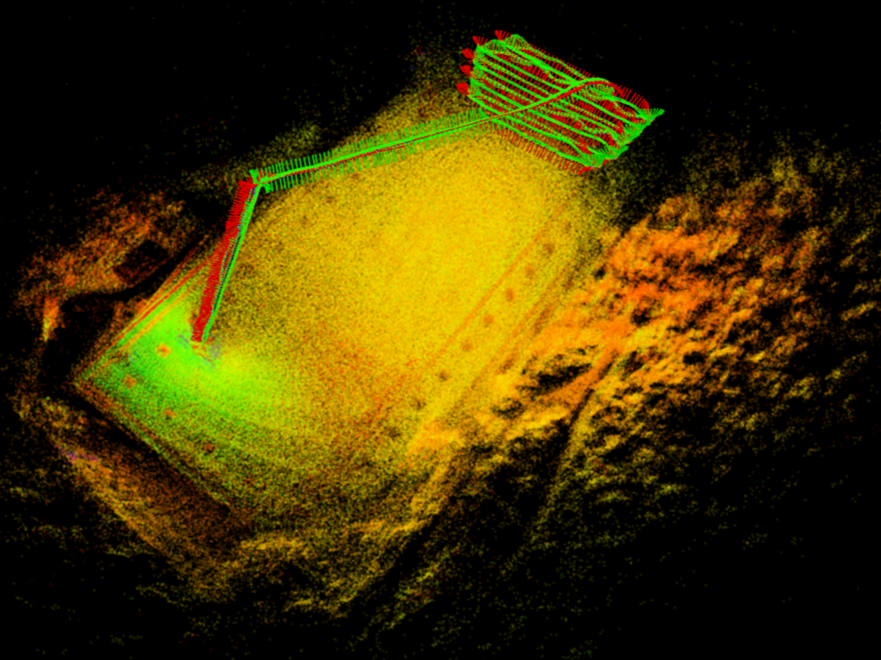
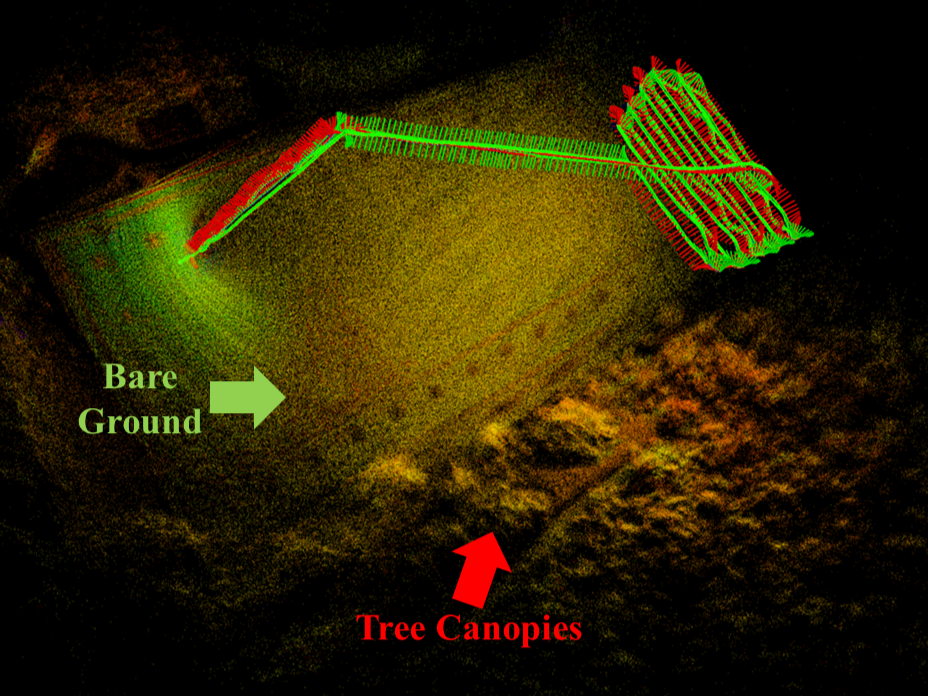
add SLAM on intro, annotate SLAM pics

diff --git a/Final_Report.tex b/Final_Report.tex
@@ -159,12 +159,16 @@ temporal flexibility is further complemented with the benefit of low operational
 cost, rendering it an ideal platform for monitoring regional and urban
 vegetation \cite{Tang2015}. 
 
-Conventionally, UAV remote sensing platforms carry similar instruments to that
-of other remote sensing systems, including radar, LiDAR, and multi-spectral or
-hyperspectral imagery sensors \cite{Tang2015}. However, while imaging
-instruments are susceptible to the influence of lighting and weather
-\cite{Wu2024}, LiDAR devices may occasionally face difficulties penetrating
-through dense canopy \cite{Su2007}. Therefore, it is critical to explore a
+Conventionally, UAV remote sensing platforms carry similar instruments to that of other remote sensing systems, including radar, LiDAR, and multi-spectral or hyperspectral imagery sensors \cite{Tang2015}. Among these sensing methods, LiDAR is particularly suitable for vegetation monitoring as it is able to capture three-dimensional structural information about the environment. With that, valuable spatial data such as canopy height, density, and terrain structure, can be obtained for urban forestry management. Unlike imaging instruments which are susceptible to the influence of lighting and weather, LiDAR measurements are less sensitive to varying lighting conditions and more robust against visually repetitive scenes \cite{Wu2024, jiang2025gps}. Thereby providing reliable geometric reference of tree canopies. 
+
+However, standalone LiDAR measurements are insufficient in a UAV-based applications as the sensor is continuously moving and does not provide spatial context \cite{wang2026multi}. Therefore, it is necessary to integrate LiDAR sensing with a Simultaneous Localization and Mapping (SLAM) framework to estimate the UAV trajectory while incrementally constructing a 3D point cloud map of the environment. Even so, LiDAR-based SLAM primarily relies on relative motion between consecutive scans to estimate the object's trajectory. Given that, the 3D map is susceptible to cumulative drift over time especially in large-scale or long-duration operations. To address this limitation, external global references such as GPS measurements can be integrated into the SLAM framework to provide absolute positioning constraints. This fusion combines the global stability of GPS with the local accuracy of LiDAR, enabling the UAV to maintain robust localization while constructing accurate 3D representations of forest environments.
+\begin{figure}[H]
+    \centering
+    \includegraphics[width=0.7\linewidth]{Included_Images/Nuage_Lidar-003.png}
+    \caption{LiDAR point clouds of vegetation}
+\end{figure}
+
+Despite being a relatively robust sensor for vegetation remote sensing, LiDAR devices may occasionally face difficulties penetrating through dense canopy \cite{Su2007}. Therefore, it is critical to explore a
 robust sensing technique that is suitable for UAVs in terms of payload and power
 consumption to complement the existing instruments. Recently, the technique of
 GNSS-R is receiving increasing interest in the field of remote sensing. GNSS-R
@@ -1836,6 +1840,21 @@ By referring to the mean covariance from all dataset, covariance threshold is se
         \caption{Data 6}
     \end{subfigure}
     \caption{Point cloud features and trajectories from pose graph SLAM with GPS}
+\end{figure}
+
+With the combination of LiDAR odometry (Fast-LIO) and a pose graph SLAM system with GPS (PGO+GPS), distinct 3D point cloud features can be obtained in experimental areas where tree canopies and bare ground are well defined. In this case, the data can provide geometric reference for GNSS signals to cross validate whether the reflected signal from the satellite belongs to the ground, water surfaces, or tree canopies. 
+\begin{figure}[H]
+    \centering
+    \begin{subfigure}{0.65\textwidth}
+        \includegraphics[width=\textwidth]{Included_Images/SLAM_anno_FL.png}
+        \caption{Fast-LIO}
+    \end{subfigure}
+    \par\medskip
+    \begin{subfigure}{0.65\textwidth}
+        \includegraphics[width=\textwidth]{Included_Images/SLAM_anno_pgo.png}
+        \caption{PGO+GPS}
+    \end{subfigure}
+    \caption{Odometry and pose graph SLAM results that capture distinguish features such as bare ground and tree canopies}
 \end{figure}
 
 
